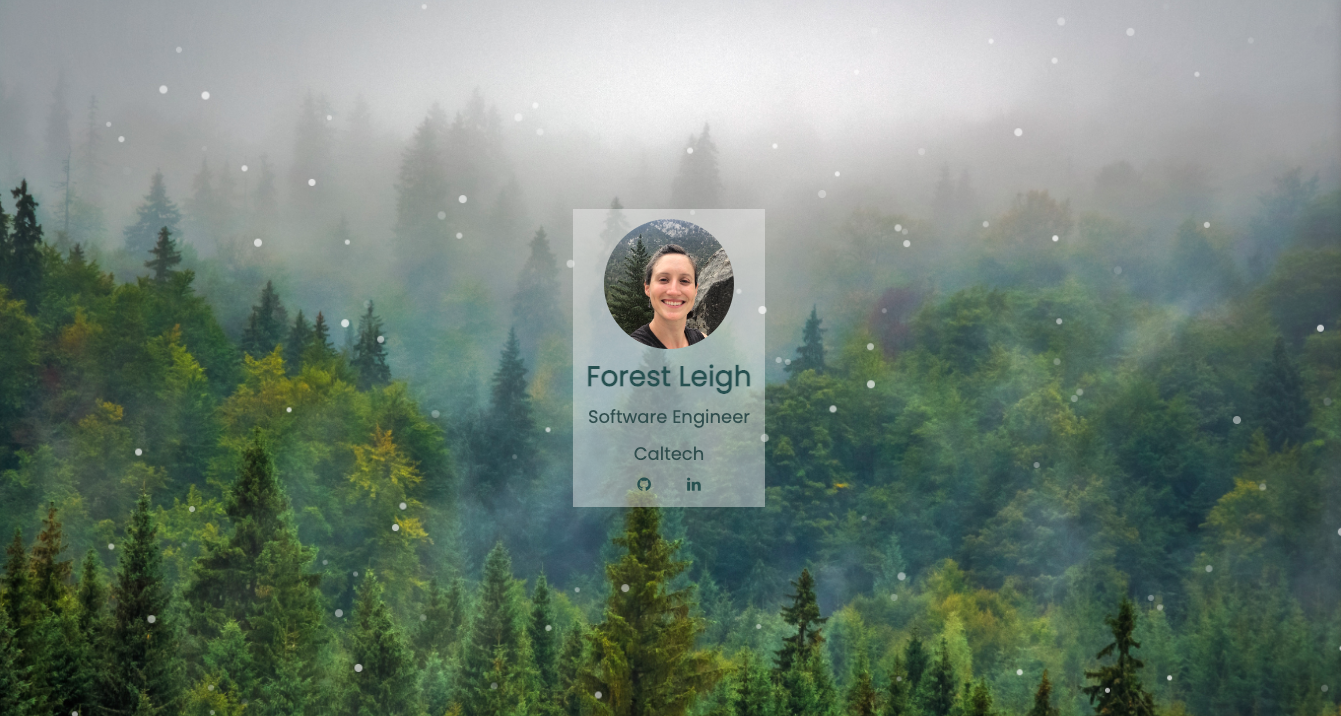
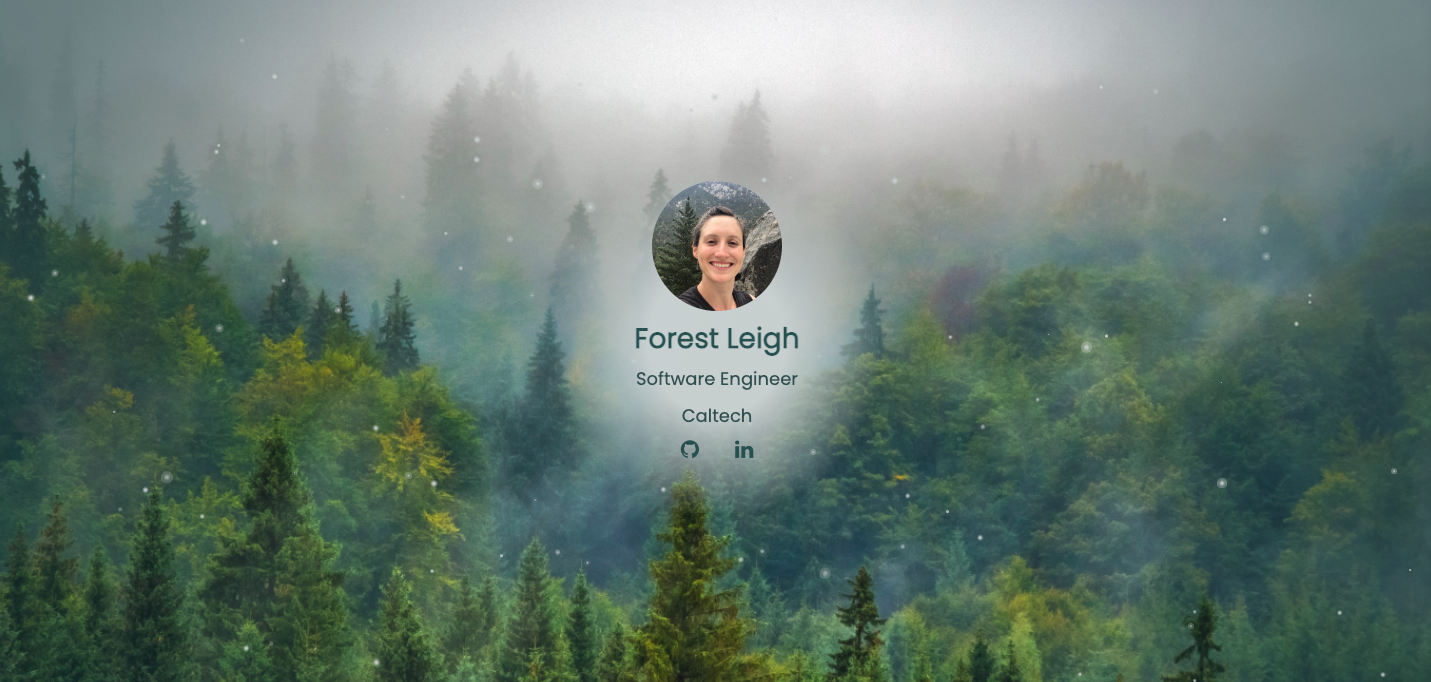
updated readme with current screenshot

diff --git a/client/src/styles/card.scss b/client/src/styles/card.scss
@@ -1,8 +1,12 @@
 
 .card {
   z-index: 9;
-  background: rgba(245, 245, 245, 0.587);
-  max-width: 300px;
+  // background: rgba(245, 245, 245, 0.587);
+  background: radial-gradient(hsl(180, 5%, 80%),
+                hsl(180, 5%, 80%) 30%,
+                hsla(180, 6%, 80%, 0) 73%);
+  width: 300px;
+  height: 320px;
   position: absolute;
   top: 50%;
   left: 50%;

diff --git a/README.md b/README.md
@@ -1,8 +1,10 @@
-# Forest Leigh
-Contact me page
+# Forest Leigh Personal Homepage
 
+## Highlights
+ - custom CSS partcile animation
+ - Techstack: React, Node, Webpack
 ## LinkedIn
 https://www.linkedin.com/in/forestleigh
 
-![](./client/src/assets/screen.png)
+![website screenshot](./client/src/assets/screen.png "Once we believe in ourselves, we can risk curiosity, wonder, spontaneous delight, or any experience that reveals the human spirit. - E. E. Cummings")
 
